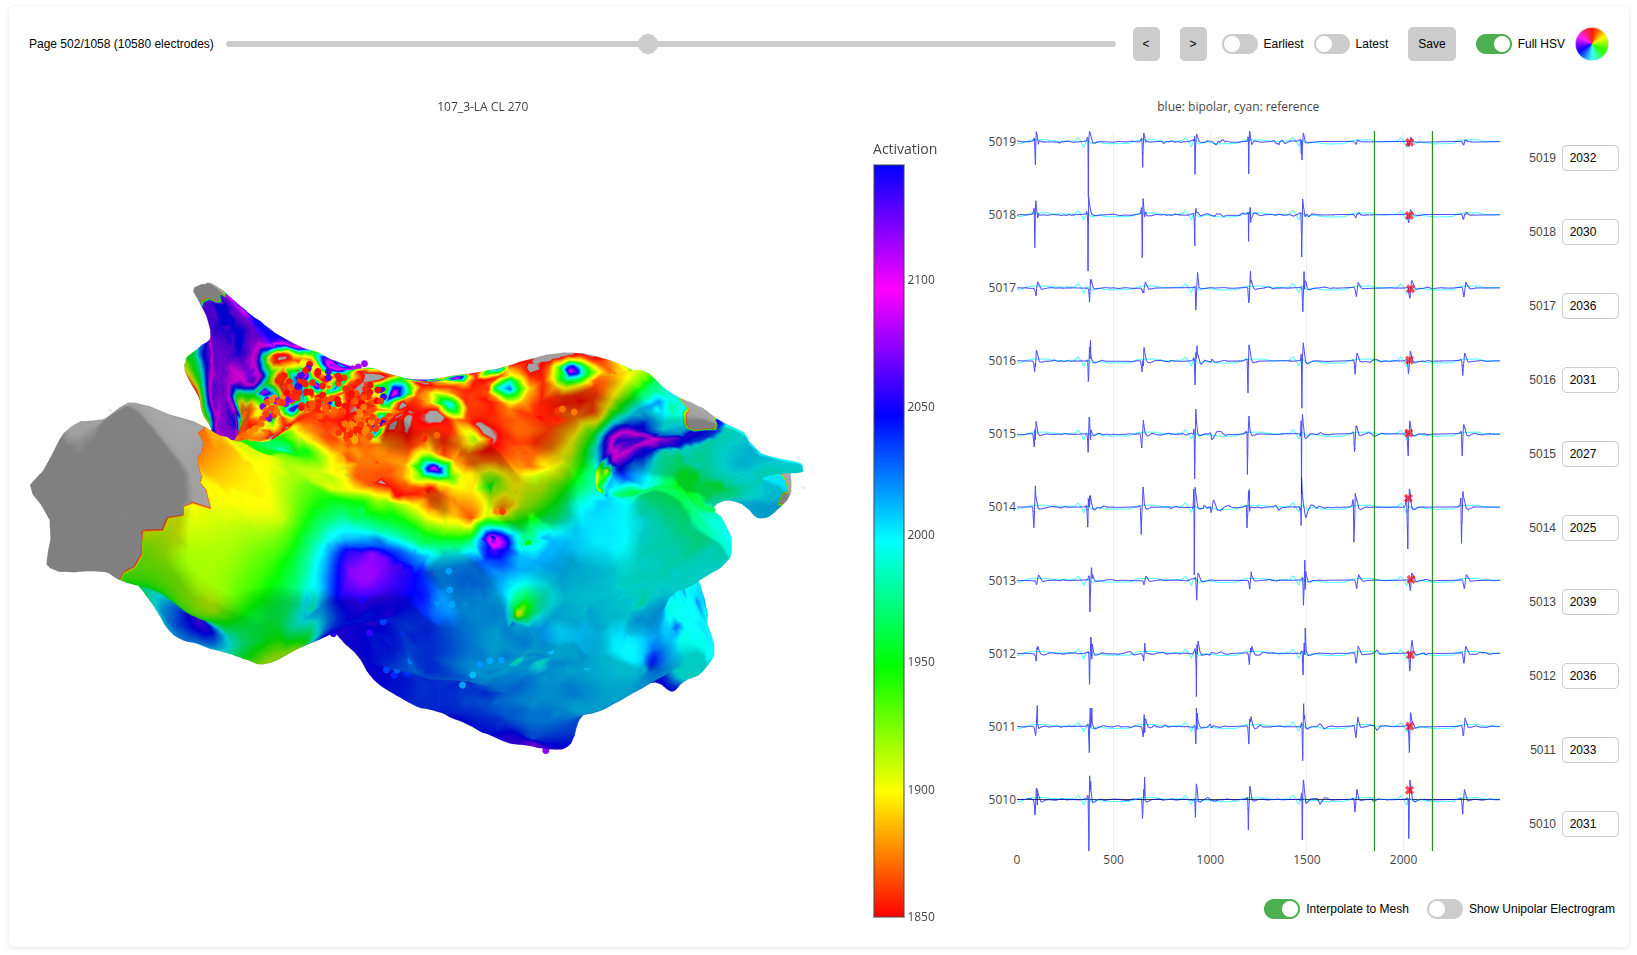
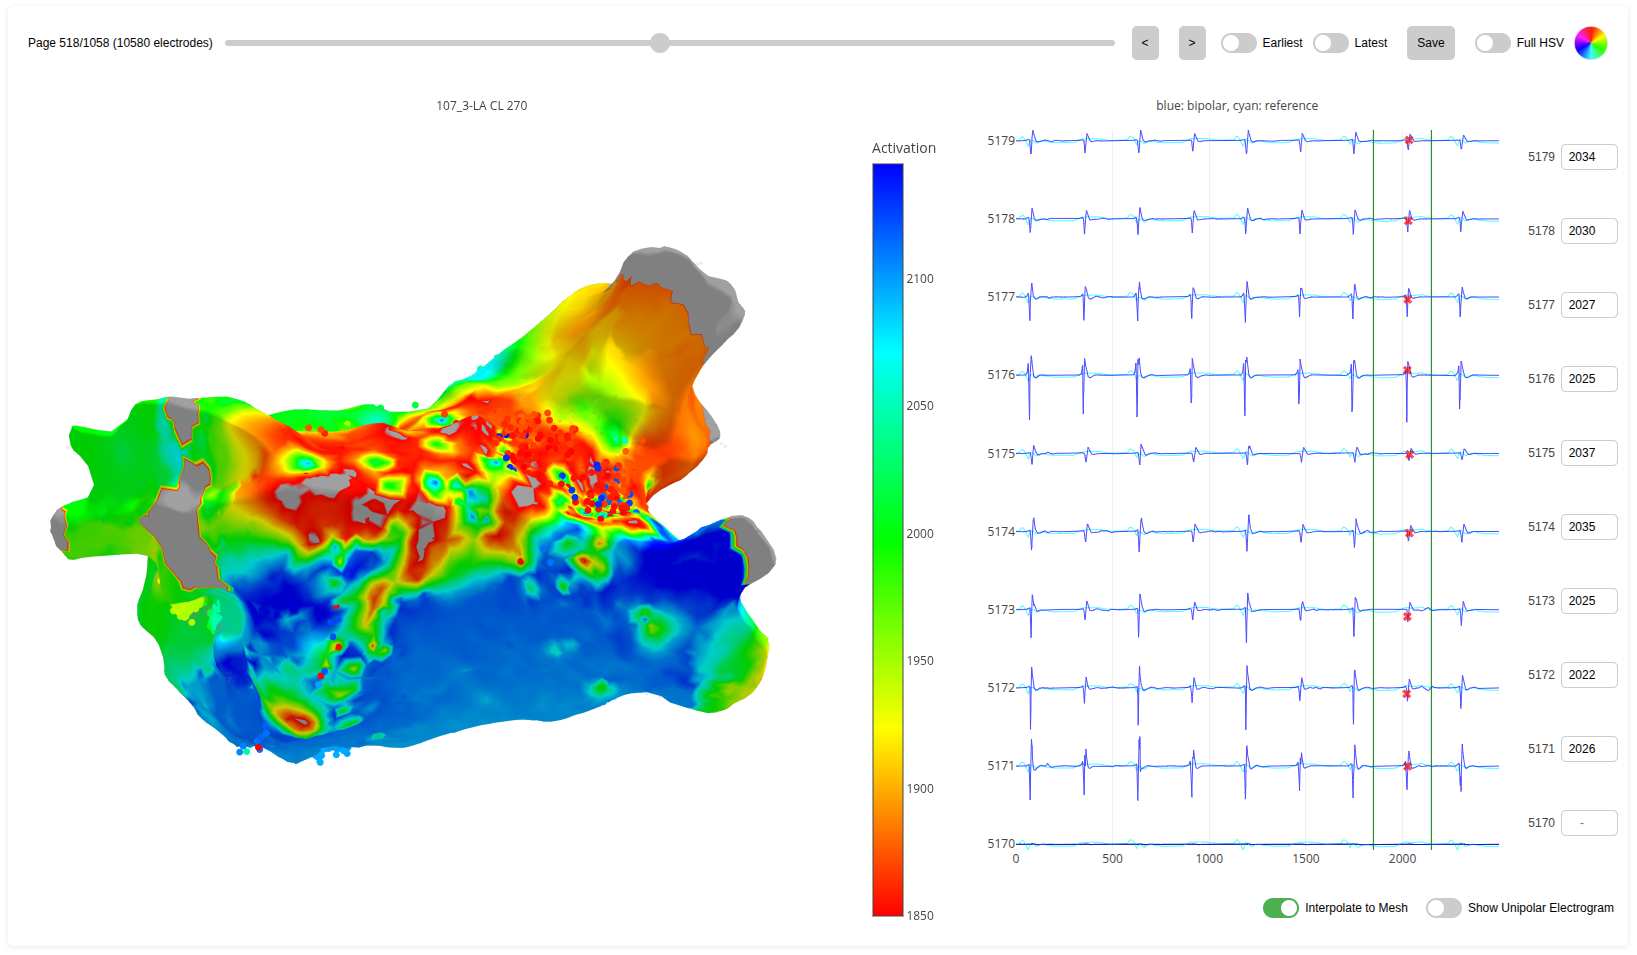
.

diff --git a/ui_patient_data_observer.html b/ui_patient_data_observer.html
@@ -141,8 +141,10 @@
                     [r, g, b] = [0, c, x];
                 } else if (h < 4) {
                     [r, g, b] = [0, x, c];
-                } else {
+                } else if (h < 5) {
                     [r, g, b] = [x, 0, c];
+                } else {
+                    [r, g, b] = [c, 0, x];
                 }
                 
                 r = Math.round((r + m) * 255);
